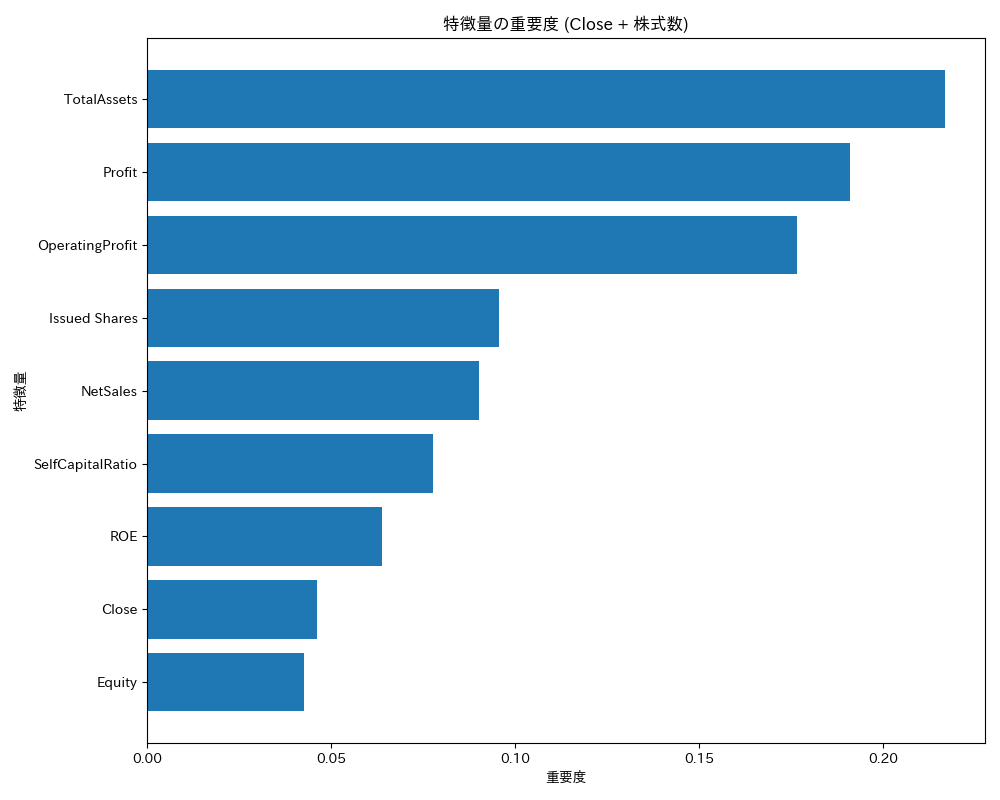
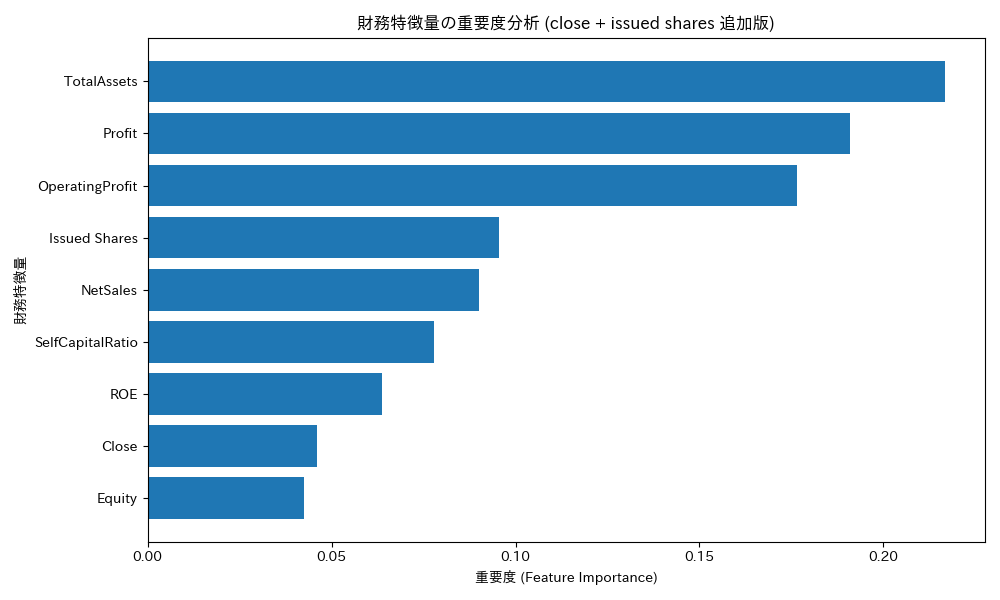
bisyuusei

diff --git a/sisaku/temp.py b/sisaku/temp.py
@@ -1,27 +1,28 @@
 import pandas as pd
 import xgboost as xgb
+from sklearn.model_selection import train_test_split
 from sklearn.metrics import accuracy_score
 import matplotlib.pyplot as plt
-import japanize_matplotlib
+import japanize_matplotlib # 日本語表示のためのライブラリ
 
 # --- 1. データセットの読み込み ---
 try:
-    dataset = pd.read_csv('analysis_dataset_v2_close.csv')
-    print("✅ 分析用データセット v2 ('Close + 株式数'版) の読み込み完了。")
+    # ★★★ 修正点 ★★★
+    # 読み込むファイルを v2 に変更
+    dataset = pd.read_csv('analysis_dataset_v2.csv', index_col='Date', parse_dates=True)
+    print("✅ 分析用データセット v2 (PER, PBR追加版) の読み込み完了。")
 except FileNotFoundError:
-    print("❌ エラー: 'analysis_dataset_v2_close.csv' が見つかりません。")
+    print("❌ エラー: 'analysis_dataset_v2.csv' が見つかりません。")
+    print("   'create_dataset.py' を実行してファイルを作成してください。")
     exit()
 
 # --- 2. 特徴量 (X) と 目的変数 (y) の準備 ---
-# 長い特徴量を短い別名で扱う
-long_name_shares = 'NumberOfIssuedAndOutstandingSharesAtTheEndOfFiscalYearIncludingTreasuryStock'
-short_name_shares = 'Issued Shares'
-
+# ★★★ 修正点 ★★★
+# 予測に使う特徴量に PER と PBR を追加
 features = [
     'NetSales', 'OperatingProfit', 'Profit', 'TotalAssets', 'Equity', 
     'ROE', 'SelfCapitalRatio',
-    'Close', 
-    long_name_shares
+    'PER', 'PBR' # 新しく追加した特徴量
 ]
 X = dataset[features]
 y = dataset['target']
@@ -47,28 +48,26 @@ print(f"\n📈 モデルの正解率 (Accuracy): {accuracy:.4f}")
 
 # --- 6. 特徴量の重要度の可視化 ---
 print("\n特徴量の重要度を分析しています...")
+
 importance_df = pd.DataFrame({
     'feature': features,
     'importance': model.feature_importances_
 }).sort_values('importance', ascending=False)
 
-# グラフ表示のために長い特徴量を別名に置換
-importance_df['feature'] = importance_df['feature'].replace({long_name_shares: short_name_shares})
-
 print("\n--- 特徴量の重要度 ---")
 print(importance_df)
 
-# グラフ描画
 # グラフを描画
 plt.figure(figsize=(10, 6))
 plt.barh(importance_df['feature'], importance_df['importance'])
 plt.xlabel('重要度 (Feature Importance)')
 plt.ylabel('財務特徴量')
-plt.title('財務特徴量の重要度分析 (close + issued shares 追加版)')
+plt.title('財務特徴量の重要度分析 (PER, PBR 追加版)')
 plt.gca().invert_yaxis()
 plt.tight_layout()
 
-graph_filename = 'feature_importance_v2_close.png'
+# グラフをファイルに保存
+graph_filename = 'feature_importance_v2.png'
 plt.savefig(graph_filename)
 print(f"\n📊 特徴量の重要度グラフを '{graph_filename}' として保存しました。")
 plt.show()
